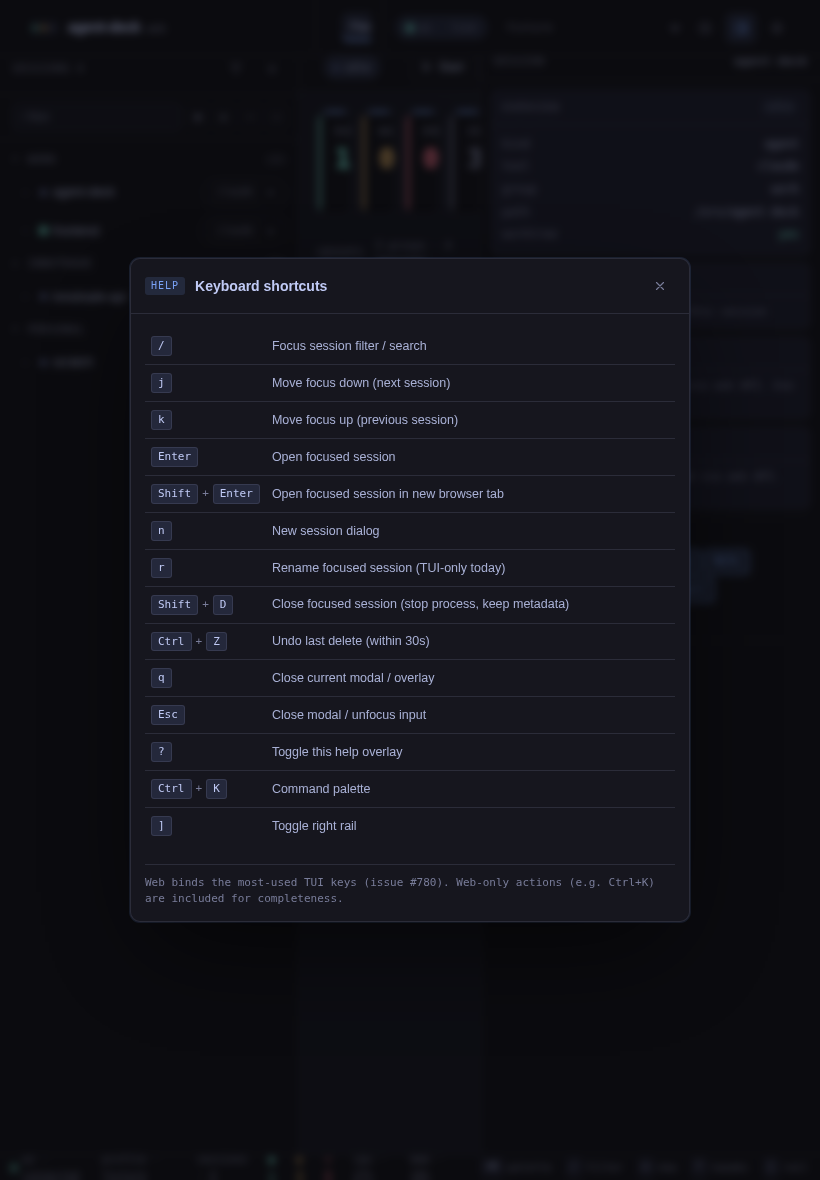
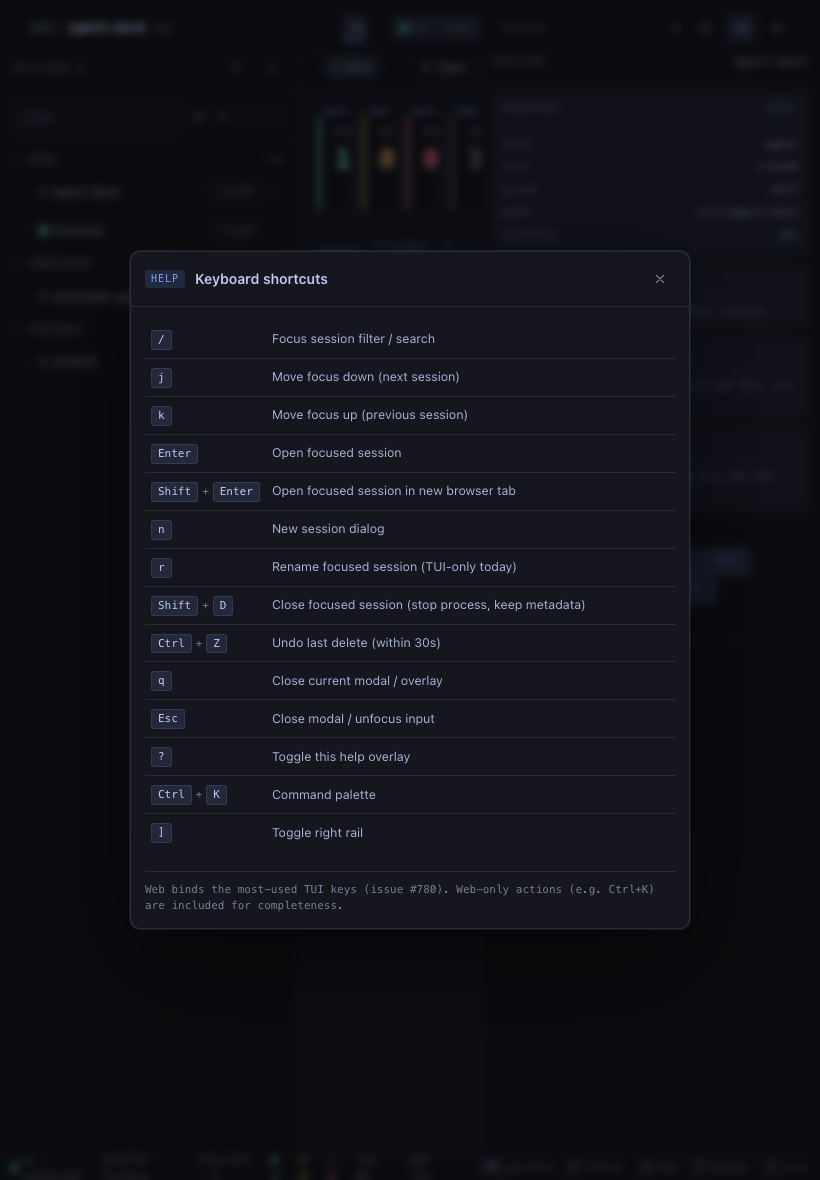
fix(web): stabilize Playwright e2e CI failures
Disable mutation rate limiting for the fixture profile so the serial
e2e suite does not hit 429 on skills/session specs, and refresh phone
home and tablet shortcuts-overlay screenshot baselines after merged UI
changes.

Changed region(s): [[0.1829, 0.2136, 0.7927, 0.7932]]

diff --git a/internal/web/server.go b/internal/web/server.go
@@ -170,11 +170,17 @@ func NewServer(cfg Config) *Server {
 		menuData = NewSessionDataService(cfg.Profile)
 	}
 
+	mutationLimiter := rate.NewLimiter(rate.Limit(20), 40) // 20 req/s, burst 40
+	if cfg.Profile == "fixture" {
+		// Playwright e2e hammers mutations across 400+ serial cases on one
+		// process; production limits would flake skills/mcps/session specs.
+		mutationLimiter = rate.NewLimiter(rate.Inf, 0)
+	}
 	s := &Server{
 		cfg:              cfg,
 		menuData:         menuData,
 		menuSubscribers:  make(map[chan struct{}]struct{}),
-		mutationLimiter:  rate.NewLimiter(rate.Limit(20), 40), // 20 req/s, burst 40
+		mutationLimiter:  mutationLimiter,
 		hookStatusLoader: defaultLoadHookStatuses,
 	}
 	s.baseCtx, s.cancelBase = context.WithCancel(context.Background())